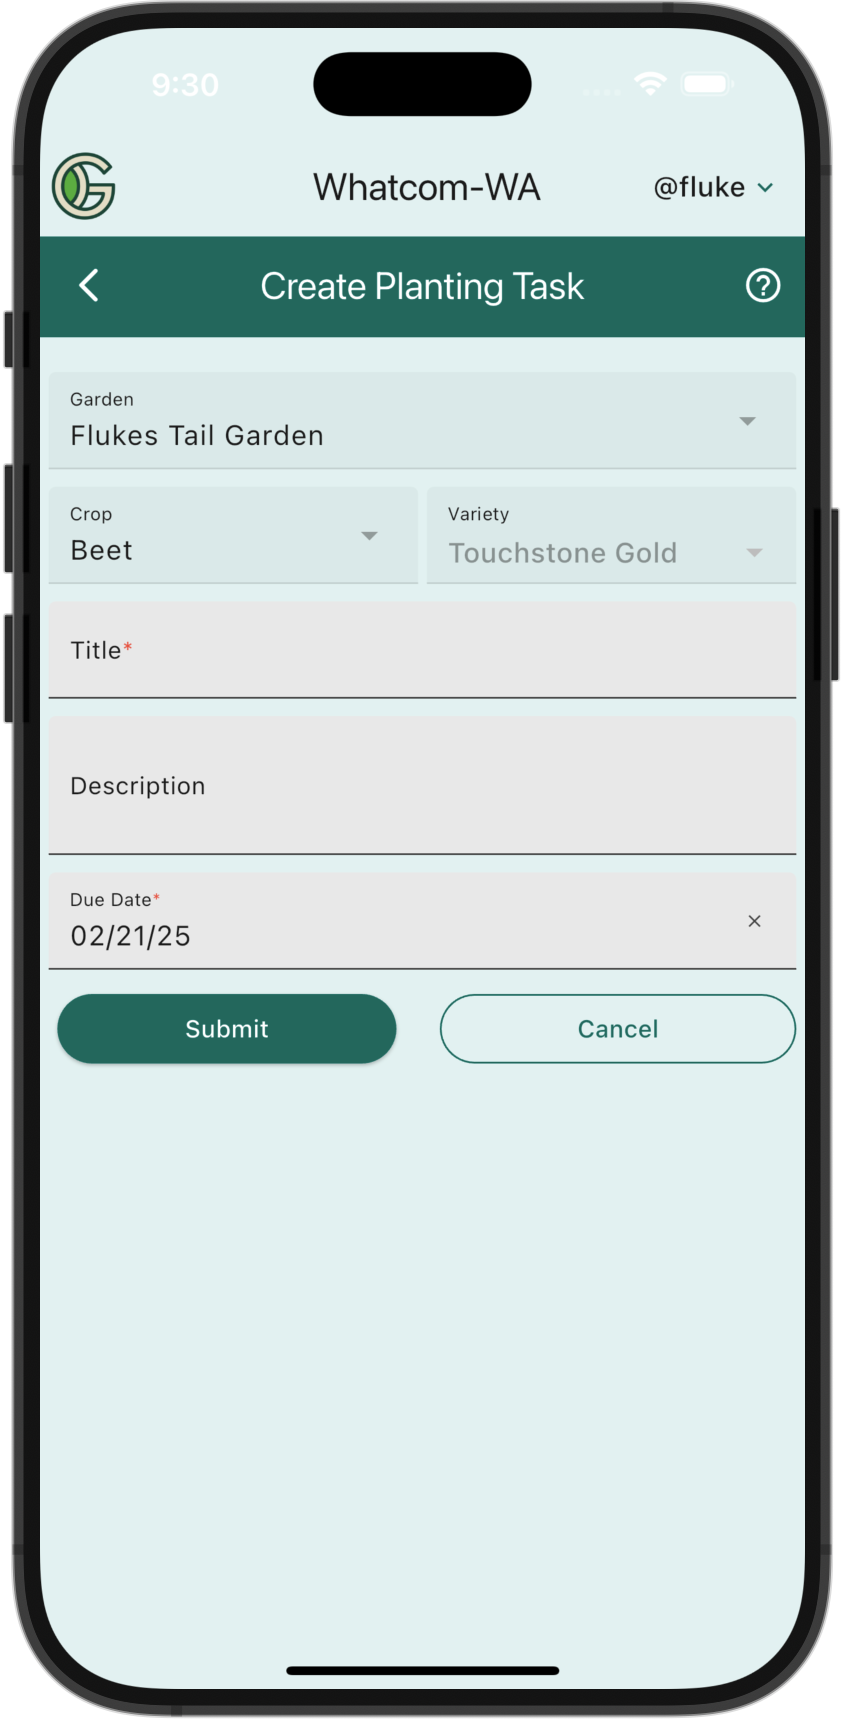
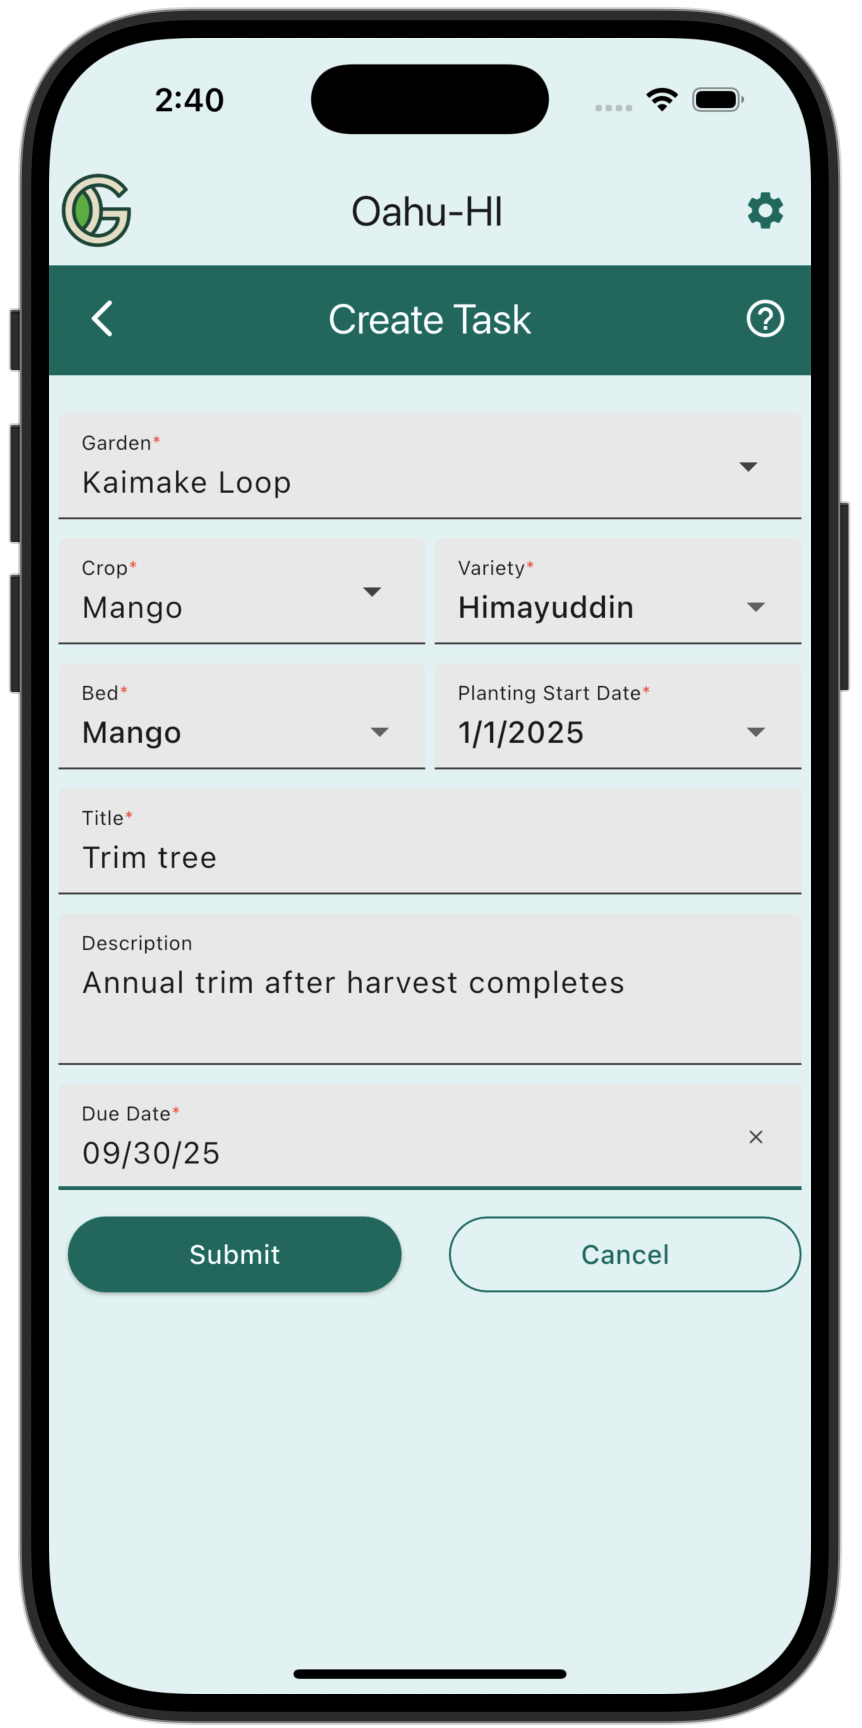
task create

diff --git a/docs/user-guide/tasks.md b/docs/user-guide/tasks.md
@@ -11,7 +11,7 @@ In GeoGardenClub, Tasks support two important goals:
 
 *Tasks provide a "To Do" list to help remind you of activities (planting, transplanting, etc).*  If you co-manage a Garden with others (i.e. you have defined Editors for your Garden), then Tasks can help organize who does what and indicate what hasn't been accomplished.
 
-*Tasks help you to create accurate records of planting dates.* Whenever you complete a Task associated with a Planting date, you have the opportunity to update that date. This makes it appropriate for you to "guesstimate" dates (such as First Harvest date) early in the year when you are planning your garden, and then replace that guesstimate with the actual First Harvest date when it actually happens.  
+*Tasks help you create accurate records of planting dates.* Whenever you complete a Task associated with a Planting date (i.e. start, transplant, first harvest, pull, etc), you have the opportunity to correct that date. This makes it possible for you to "guesstimate" dates (such as First Harvest date) early in the year when you are planning your garden, and then replace that guesstimate with the correct First Harvest date when it actually happens.  
 
 ## Viewing Tasks
 
@@ -21,13 +21,13 @@ First, the Tasks view in the Home Screen shows all of your Tasks across all of y
 
 <img width="300" src="/img/user-guide/tasks-view-home-screen.png"/>
 
-In this example, the displayed Tasks are associated with two Gardens: Alderwood and Flukes Tail Garden.
+In this example, the displayed Tasks are associated with two Gardens: Kaimake Loop and Makai Garden.
 
 The second way to view Tasks is through the Tasks view of the Garden Details screen:
 
 <img width="300" src="/img/user-guide/tasks-view-garden-details.png"/>
 
-In this case, the displayed Tasks are only those associated with the Garden you selected for Garden Details.
+In this case, the displayed Tasks are only those associated with the Garden you selected for Garden Details--in this case, Kaimake Loop.
 
 ## Creating Tasks
 
@@ -35,19 +35,29 @@ Tasks are always associated with a Planting. Task can be created automatically o
 
 *Automatically created Tasks:* Whenever you define a Planting date (such as Start, Transplant, First Harvest, Last Harvest, or Pull date), a Task with the associated date is automatically created for you.
 
-*Manually created Tasks:* If you want to create additional Tasks for a Planting, you can do that manually. To do that, go to the Planting Details screen for the Planting and tap the "+" button at the bottom left of the screen:
+*Manually created Tasks:* If you want to create additional Tasks for a Planting, you can do that manually. To do that, go to the Tasks view (in either your Home screen or Garden Details screen) and click the "+ Task" button:
 
+<img width="300" src="/img/user-guide/tasks-view-home-screen.png"/>
 
-<img width="300" src="/img/user-guide/tasks-manual-creation-1.png"/>
+Tapping "+ Task" brings up the Create Task screen:
 
-Tap "+ Task" to bring up the Create Planting Task screen:
+<img width="300" src="/img/user-guide/tasks-manual-creation.png"/>
+
+Now fill out the fields to specify a single Planting by selecting a Garden, Bed, Crop, Variety and Planting Start Date. Then provide the Task title, description, and Due Date. For example:
 
 <img width="300" src="/img/user-guide/tasks-manual-creation-2.png"/>
 
-Create the Task, and it will be associated with that Garden and Planting.
+Create the Task, and it will appear in the Tasks view:
 
-:::info Can I create manual Tasks that are associated with Beds or Gardens? 
-Unfortunately, not yet.  Currently, all Tasks have to be associated with a Planting. As a workaround, you can create a Task manually that is associated with a single Planting, and then note in the Description field that the Task should actually be performed across the entire Bed (or Garden). Not elegant, but it's better than nothing.
+<img width="300" src="/img/user-guide/tasks-manual-creation-3.png"/>
+
+Note that the Planting crop and variety are automatically added to the title field. 
+
+
+:::info Can I create Tasks that are associated with Beds or Gardens? 
+Unfortunately, not yet, but this is planned for the future.  Currently, all Tasks have to be associated with a single Planting. 
+
+As a workaround, you can create a Task that is associated with a single Planting, and then note in the Description field that the Task should actually be performed across the entire Bed (or Garden). 
 :::
 
 ## Update a Task
